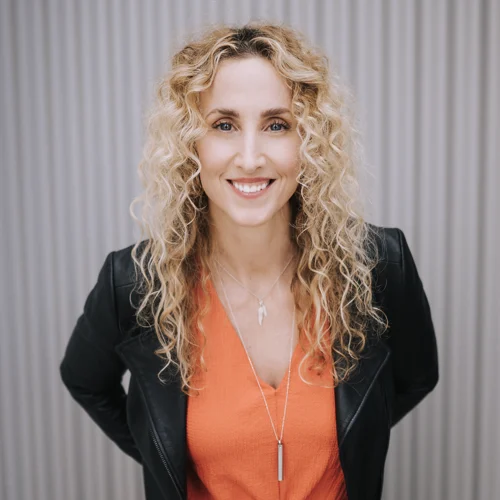
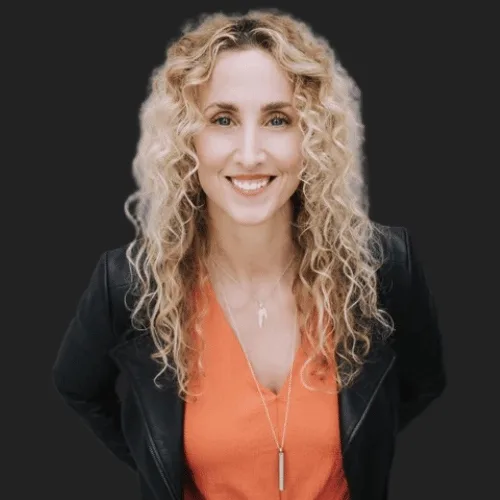
love-immersion: october-2026 Kristin and Rachel guide photos on matching dark backgrounds (#255)

diff --git a/love-immersion/october-2026/index.html b/love-immersion/october-2026/index.html
@@ -418,13 +418,13 @@
           <p class="text-white/55 text-sm leading-relaxed">Transformation Through Radical Play, Polarity, and Truth</p>
         </div>
         <div class="flex flex-col items-center text-center w-56">
-          <img src="/images/facilitators/rachel-cuthbert.webp" alt="Rachel Cuthbert" loading="lazy" class="w-36 h-36 rounded-full object-cover mb-5" style="box-shadow: 0 10px 30px rgba(0,0,0,0.45);">
+          <img src="/images/facilitators/rachel-cuthbert.webp?v=2" alt="Rachel Cuthbert" loading="lazy" class="w-36 h-36 rounded-full object-cover mb-5" style="box-shadow: 0 10px 30px rgba(0,0,0,0.45);">
           <h3 class="font-heading text-xl text-white mb-1.5">Rachel Cuthbert</h3>
           <p class="text-gold text-sm font-medium mb-1.5 leading-snug">Trauma-Informed Coach and Somatic Practitioner</p>
           <p class="text-white/55 text-sm leading-relaxed">Nervous System Healing, Inner Child Integration, and Attachment Transformation</p>
         </div>
         <div class="flex flex-col items-center text-center w-56">
-          <img src="/images/facilitators/kristin-weitzel.webp" alt="Kristin Weitzel" loading="lazy" class="w-36 h-36 rounded-full object-cover mb-5" style="box-shadow: 0 10px 30px rgba(0,0,0,0.45);">
+          <img src="/images/facilitators/kristin-weitzel.webp?v=2" alt="Kristin Weitzel" loading="lazy" class="w-36 h-36 rounded-full object-cover mb-5" style="box-shadow: 0 10px 30px rgba(0,0,0,0.45);">
           <h3 class="font-heading text-xl text-white mb-1.5">Kristin Weitzel</h3>
           <p class="text-gold text-sm font-medium mb-1.5 leading-snug">Breath &amp; Cold Expert and High-Performance Alchemist</p>
           <p class="text-white/55 text-sm leading-relaxed">Helping Leaders Reclaim Power, Peace, and Resilience</p>
